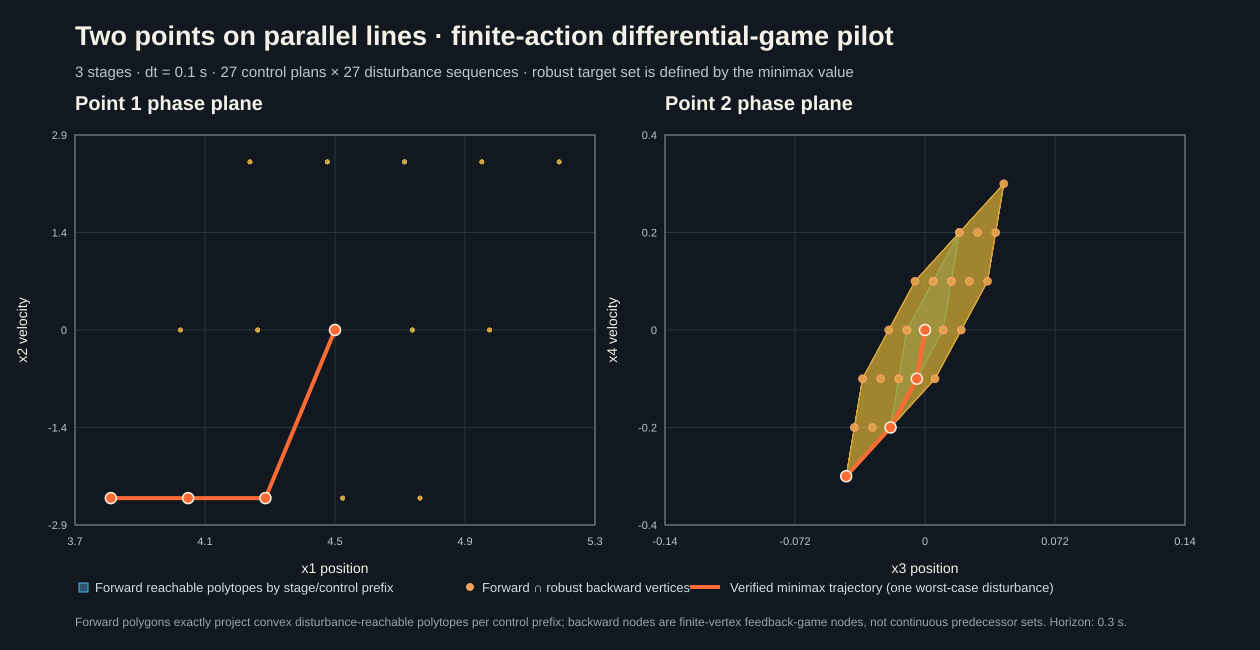
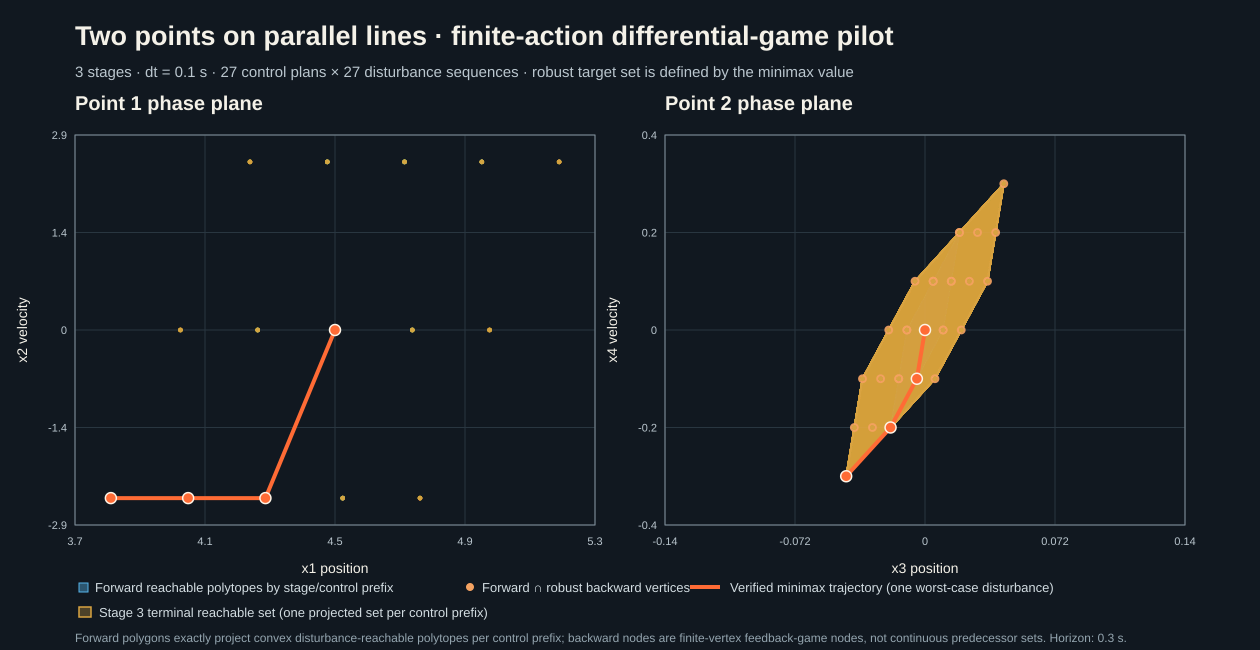
Highlight terminal reachable set in pilot figure

Changed region(s): [[0.0619, 0.9231, 0.8976, 1.0], [0.65, 0.2769, 0.8048, 0.7077]]

diff --git a/reports/algorithm-results/env717-two-points-pilot-v1/index.html b/reports/algorithm-results/env717-two-points-pilot-v1/index.html
@@ -491,42 +491,42 @@
 <text x="1185.00" y="545" fill="#bac6ce" font-family="sans-serif" font-size="11" text-anchor="middle">0.14</text>
 <text x="657" y="139.00" fill="#bac6ce" font-family="sans-serif" font-size="11" text-anchor="end">0.4</text>
 <rect x="665" y="135" width="520" height="390" fill="none" stroke="#81909a"/>
-<polygon points="890.57,427.50 943.12,330.00 951.27,281.25 959.43,232.50 906.88,330.00 898.73,378.75" fill="#00c49a" fill-opacity="0.055" stroke="#00c49a" stroke-opacity="0.28" stroke-width="0.8"/>
-<polygon points="890.57,427.50 943.12,330.00 951.27,281.25 959.43,232.50 906.88,330.00 898.73,378.75" fill="#00c49a" fill-opacity="0.055" stroke="#00c49a" stroke-opacity="0.28" stroke-width="0.8"/>
-<polygon points="890.57,427.50 943.12,330.00 951.27,281.25 959.43,232.50 906.88,330.00 898.73,378.75" fill="#00c49a" fill-opacity="0.055" stroke="#00c49a" stroke-opacity="0.28" stroke-width="0.8"/>
-<polygon points="890.57,427.50 943.12,330.00 951.27,281.25 959.43,232.50 906.88,330.00 898.73,378.75" fill="#00c49a" fill-opacity="0.055" stroke="#00c49a" stroke-opacity="0.28" stroke-width="0.8"/>
-<polygon points="890.57,427.50 943.12,330.00 951.27,281.25 959.43,232.50 906.88,330.00 898.73,378.75" fill="#00c49a" fill-opacity="0.055" stroke="#00c49a" stroke-opacity="0.28" stroke-width="0.8"/>
-<polygon points="890.57,427.50 943.12,330.00 951.27,281.25 959.43,232.50 906.88,330.00 898.73,378.75" fill="#00c49a" fill-opacity="0.055" stroke="#00c49a" stroke-opacity="0.28" stroke-width="0.8"/>
-<polygon points="890.57,427.50 943.12,330.00 951.27,281.25 959.43,232.50 906.88,330.00 898.73,378.75" fill="#00c49a" fill-opacity="0.055" stroke="#00c49a" stroke-opacity="0.28" stroke-width="0.8"/>
-<polygon points="890.57,427.50 943.12,330.00 951.27,281.25 959.43,232.50 906.88,330.00 898.73,378.75" fill="#00c49a" fill-opacity="0.055" stroke="#00c49a" stroke-opacity="0.28" stroke-width="0.8"/>
-<polygon points="890.57,427.50 943.12,330.00 951.27,281.25 959.43,232.50 906.88,330.00 898.73,378.75" fill="#00c49a" fill-opacity="0.055" stroke="#00c49a" stroke-opacity="0.28" stroke-width="0.8"/>
-<polygon points="846.18,476.25 890.57,427.50 934.97,378.75 987.51,281.25 1003.82,183.75 959.43,232.50 915.03,281.25 862.49,378.75" fill="#d9a441" fill-opacity="0.055" stroke="#d9a441" stroke-opacity="0.28" stroke-width="0.8"/>
-<polygon points="846.18,476.25 890.57,427.50 934.97,378.75 987.51,281.25 1003.82,183.75 959.43,232.50 915.03,281.25 862.49,378.75" fill="#d9a441" fill-opacity="0.055" stroke="#d9a441" stroke-opacity="0.28" stroke-width="0.8"/>
-<polygon points="846.18,476.25 890.57,427.50 934.97,378.75 987.51,281.25 1003.82,183.75 959.43,232.50 915.03,281.25 862.49,378.75" fill="#d9a441" fill-opacity="0.055" stroke="#d9a441" stroke-opacity="0.28" stroke-width="0.8"/>
-<polygon points="846.18,476.25 890.57,427.50 934.97,378.75 987.51,281.25 1003.82,183.75 959.43,232.50 915.03,281.25 862.49,378.75" fill="#d9a441" fill-opacity="0.055" stroke="#d9a441" stroke-opacity="0.28" stroke-width="0.8"/>
-<polygon points="846.18,476.25 890.57,427.50 934.97,378.75 987.51,281.25 1003.82,183.75 959.43,232.50 915.03,281.25 862.49,378.75" fill="#d9a441" fill-opacity="0.055" stroke="#d9a441" stroke-opacity="0.28" stroke-width="0.8"/>
-<polygon points="846.18,476.25 890.57,427.50 934.97,378.75 987.51,281.25 1003.82,183.75 959.43,232.50 915.03,281.25 862.49,378.75" fill="#d9a441" fill-opacity="0.055" stroke="#d9a441" stroke-opacity="0.28" stroke-width="0.8"/>
-<polygon points="846.18,476.25 890.57,427.50 934.97,378.75 987.51,281.25 1003.82,183.75 959.43,232.50 915.03,281.25 862.49,378.75" fill="#d9a441" fill-opacity="0.055" stroke="#d9a441" stroke-opacity="0.28" stroke-width="0.8"/>
-<polygon points="846.18,476.25 890.57,427.50 934.97,378.75 987.51,281.25 1003.82,183.75 959.43,232.50 915.03,281.25 862.49,378.75" fill="#d9a441" fill-opacity="0.055" stroke="#d9a441" stroke-opacity="0.28" stroke-width="0.8"/>
-<polygon points="846.18,476.25 890.57,427.50 934.97,378.75 987.51,281.25 1003.82,183.75 959.43,232.50 915.03,281.25 862.49,378.75" fill="#d9a441" fill-opacity="0.055" stroke="#d9a441" stroke-opacity="0.28" stroke-width="0.8"/>
-<polygon points="846.18,476.25 890.57,427.50 934.97,378.75 987.51,281.25 1003.82,183.75 959.43,232.50 915.03,281.25 862.49,378.75" fill="#d9a441" fill-opacity="0.055" stroke="#d9a441" stroke-opacity="0.28" stroke-width="0.8"/>
-<polygon points="846.18,476.25 890.57,427.50 934.97,378.75 987.51,281.25 1003.82,183.75 959.43,232.50 915.03,281.25 862.49,378.75" fill="#d9a441" fill-opacity="0.055" stroke="#d9a441" stroke-opacity="0.28" stroke-width="0.8"/>
-<polygon points="846.18,476.25 890.57,427.50 934.97,378.75 987.51,281.25 1003.82,183.75 959.43,232.50 915.03,281.25 862.49,378.75" fill="#d9a441" fill-opacity="0.055" stroke="#d9a441" stroke-opacity="0.28" stroke-width="0.8"/>
-<polygon points="846.18,476.25 890.57,427.50 934.97,378.75 987.51,281.25 1003.82,183.75 959.43,232.50 915.03,281.25 862.49,378.75" fill="#d9a441" fill-opacity="0.055" stroke="#d9a441" stroke-opacity="0.28" stroke-width="0.8"/>
-<polygon points="846.18,476.25 890.57,427.50 934.97,378.75 987.51,281.25 1003.82,183.75 959.43,232.50 915.03,281.25 862.49,378.75" fill="#d9a441" fill-opacity="0.055" stroke="#d9a441" stroke-opacity="0.28" stroke-width="0.8"/>
-<polygon points="846.18,476.25 890.57,427.50 934.97,378.75 987.51,281.25 1003.82,183.75 959.43,232.50 915.03,281.25 862.49,378.75" fill="#d9a441" fill-opacity="0.055" stroke="#d9a441" stroke-opacity="0.28" stroke-width="0.8"/>
-<polygon points="846.18,476.25 890.57,427.50 934.97,378.75 987.51,281.25 1003.82,183.75 959.43,232.50 915.03,281.25 862.49,378.75" fill="#d9a441" fill-opacity="0.055" stroke="#d9a441" stroke-opacity="0.28" stroke-width="0.8"/>
-<polygon points="846.18,476.25 890.57,427.50 934.97,378.75 987.51,281.25 1003.82,183.75 959.43,232.50 915.03,281.25 862.49,378.75" fill="#d9a441" fill-opacity="0.055" stroke="#d9a441" stroke-opacity="0.28" stroke-width="0.8"/>
-<polygon points="846.18,476.25 890.57,427.50 934.97,378.75 987.51,281.25 1003.82,183.75 959.43,232.50 915.03,281.25 862.49,378.75" fill="#d9a441" fill-opacity="0.055" stroke="#d9a441" stroke-opacity="0.28" stroke-width="0.8"/>
-<polygon points="846.18,476.25 890.57,427.50 934.97,378.75 987.51,281.25 1003.82,183.75 959.43,232.50 915.03,281.25 862.49,378.75" fill="#d9a441" fill-opacity="0.055" stroke="#d9a441" stroke-opacity="0.28" stroke-width="0.8"/>
-<polygon points="846.18,476.25 890.57,427.50 934.97,378.75 987.51,281.25 1003.82,183.75 959.43,232.50 915.03,281.25 862.49,378.75" fill="#d9a441" fill-opacity="0.055" stroke="#d9a441" stroke-opacity="0.28" stroke-width="0.8"/>
-<polygon points="846.18,476.25 890.57,427.50 934.97,378.75 987.51,281.25 1003.82,183.75 959.43,232.50 915.03,281.25 862.49,378.75" fill="#d9a441" fill-opacity="0.055" stroke="#d9a441" stroke-opacity="0.28" stroke-width="0.8"/>
-<polygon points="846.18,476.25 890.57,427.50 934.97,378.75 987.51,281.25 1003.82,183.75 959.43,232.50 915.03,281.25 862.49,378.75" fill="#d9a441" fill-opacity="0.055" stroke="#d9a441" stroke-opacity="0.28" stroke-width="0.8"/>
-<polygon points="846.18,476.25 890.57,427.50 934.97,378.75 987.51,281.25 1003.82,183.75 959.43,232.50 915.03,281.25 862.49,378.75" fill="#d9a441" fill-opacity="0.055" stroke="#d9a441" stroke-opacity="0.28" stroke-width="0.8"/>
-<polygon points="846.18,476.25 890.57,427.50 934.97,378.75 987.51,281.25 1003.82,183.75 959.43,232.50 915.03,281.25 862.49,378.75" fill="#d9a441" fill-opacity="0.055" stroke="#d9a441" stroke-opacity="0.28" stroke-width="0.8"/>
-<polygon points="846.18,476.25 890.57,427.50 934.97,378.75 987.51,281.25 1003.82,183.75 959.43,232.50 915.03,281.25 862.49,378.75" fill="#d9a441" fill-opacity="0.055" stroke="#d9a441" stroke-opacity="0.28" stroke-width="0.8"/>
-<polygon points="846.18,476.25 890.57,427.50 934.97,378.75 987.51,281.25 1003.82,183.75 959.43,232.50 915.03,281.25 862.49,378.75" fill="#d9a441" fill-opacity="0.055" stroke="#d9a441" stroke-opacity="0.28" stroke-width="0.8"/>
-<polygon points="846.18,476.25 890.57,427.50 934.97,378.75 987.51,281.25 1003.82,183.75 959.43,232.50 915.03,281.25 862.49,378.75" fill="#d9a441" fill-opacity="0.055" stroke="#d9a441" stroke-opacity="0.28" stroke-width="0.8"/>
+<polygon points="890.57,427.50 943.12,330.00 951.27,281.25 959.43,232.50 906.88,330.00 898.73,378.75" fill="#00c49a" fill-opacity="0.035" stroke="#00c49a" stroke-opacity="0.2" stroke-width="0.8"/>
+<polygon points="890.57,427.50 943.12,330.00 951.27,281.25 959.43,232.50 906.88,330.00 898.73,378.75" fill="#00c49a" fill-opacity="0.035" stroke="#00c49a" stroke-opacity="0.2" stroke-width="0.8"/>
+<polygon points="890.57,427.50 943.12,330.00 951.27,281.25 959.43,232.50 906.88,330.00 898.73,378.75" fill="#00c49a" fill-opacity="0.035" stroke="#00c49a" stroke-opacity="0.2" stroke-width="0.8"/>
+<polygon points="890.57,427.50 943.12,330.00 951.27,281.25 959.43,232.50 906.88,330.00 898.73,378.75" fill="#00c49a" fill-opacity="0.035" stroke="#00c49a" stroke-opacity="0.2" stroke-width="0.8"/>
+<polygon points="890.57,427.50 943.12,330.00 951.27,281.25 959.43,232.50 906.88,330.00 898.73,378.75" fill="#00c49a" fill-opacity="0.035" stroke="#00c49a" stroke-opacity="0.2" stroke-width="0.8"/>
+<polygon points="890.57,427.50 943.12,330.00 951.27,281.25 959.43,232.50 906.88,330.00 898.73,378.75" fill="#00c49a" fill-opacity="0.035" stroke="#00c49a" stroke-opacity="0.2" stroke-width="0.8"/>
+<polygon points="890.57,427.50 943.12,330.00 951.27,281.25 959.43,232.50 906.88,330.00 898.73,378.75" fill="#00c49a" fill-opacity="0.035" stroke="#00c49a" stroke-opacity="0.2" stroke-width="0.8"/>
+<polygon points="890.57,427.50 943.12,330.00 951.27,281.25 959.43,232.50 906.88,330.00 898.73,378.75" fill="#00c49a" fill-opacity="0.035" stroke="#00c49a" stroke-opacity="0.2" stroke-width="0.8"/>
+<polygon points="890.57,427.50 943.12,330.00 951.27,281.25 959.43,232.50 906.88,330.00 898.73,378.75" fill="#00c49a" fill-opacity="0.035" stroke="#00c49a" stroke-opacity="0.2" stroke-width="0.8"/>
+<polygon points="846.18,476.25 890.57,427.50 934.97,378.75 987.51,281.25 1003.82,183.75 959.43,232.50 915.03,281.25 862.49,378.75" fill="#d9a441" fill-opacity="0.13" stroke="#d9a441" stroke-opacity="0.85" stroke-width="1.6"/>
+<polygon points="846.18,476.25 890.57,427.50 934.97,378.75 987.51,281.25 1003.82,183.75 959.43,232.50 915.03,281.25 862.49,378.75" fill="#d9a441" fill-opacity="0.13" stroke="#d9a441" stroke-opacity="0.85" stroke-width="1.6"/>
+<polygon points="846.18,476.25 890.57,427.50 934.97,378.75 987.51,281.25 1003.82,183.75 959.43,232.50 915.03,281.25 862.49,378.75" fill="#d9a441" fill-opacity="0.13" stroke="#d9a441" stroke-opacity="0.85" stroke-width="1.6"/>
+<polygon points="846.18,476.25 890.57,427.50 934.97,378.75 987.51,281.25 1003.82,183.75 959.43,232.50 915.03,281.25 862.49,378.75" fill="#d9a441" fill-opacity="0.13" stroke="#d9a441" stroke-opacity="0.85" stroke-width="1.6"/>
+<polygon points="846.18,476.25 890.57,427.50 934.97,378.75 987.51,281.25 1003.82,183.75 959.43,232.50 915.03,281.25 862.49,378.75" fill="#d9a441" fill-opacity="0.13" stroke="#d9a441" stroke-opacity="0.85" stroke-width="1.6"/>
+<polygon points="846.18,476.25 890.57,427.50 934.97,378.75 987.51,281.25 1003.82,183.75 959.43,232.50 915.03,281.25 862.49,378.75" fill="#d9a441" fill-opacity="0.13" stroke="#d9a441" stroke-opacity="0.85" stroke-width="1.6"/>
+<polygon points="846.18,476.25 890.57,427.50 934.97,378.75 987.51,281.25 1003.82,183.75 959.43,232.50 915.03,281.25 862.49,378.75" fill="#d9a441" fill-opacity="0.13" stroke="#d9a441" stroke-opacity="0.85" stroke-width="1.6"/>
+<polygon points="846.18,476.25 890.57,427.50 934.97,378.75 987.51,281.25 1003.82,183.75 959.43,232.50 915.03,281.25 862.49,378.75" fill="#d9a441" fill-opacity="0.13" stroke="#d9a441" stroke-opacity="0.85" stroke-width="1.6"/>
+<polygon points="846.18,476.25 890.57,427.50 934.97,378.75 987.51,281.25 1003.82,183.75 959.43,232.50 915.03,281.25 862.49,378.75" fill="#d9a441" fill-opacity="0.13" stroke="#d9a441" stroke-opacity="0.85" stroke-width="1.6"/>
+<polygon points="846.18,476.25 890.57,427.50 934.97,378.75 987.51,281.25 1003.82,183.75 959.43,232.50 915.03,281.25 862.49,378.75" fill="#d9a441" fill-opacity="0.13" stroke="#d9a441" stroke-opacity="0.85" stroke-width="1.6"/>
+<polygon points="846.18,476.25 890.57,427.50 934.97,378.75 987.51,281.25 1003.82,183.75 959.43,232.50 915.03,281.25 862.49,378.75" fill="#d9a441" fill-opacity="0.13" stroke="#d9a441" stroke-opacity="0.85" stroke-width="1.6"/>
+<polygon points="846.18,476.25 890.57,427.50 934.97,378.75 987.51,281.25 1003.82,183.75 959.43,232.50 915.03,281.25 862.49,378.75" fill="#d9a441" fill-opacity="0.13" stroke="#d9a441" stroke-opacity="0.85" stroke-width="1.6"/>
+<polygon points="846.18,476.25 890.57,427.50 934.97,378.75 987.51,281.25 1003.82,183.75 959.43,232.50 915.03,281.25 862.49,378.75" fill="#d9a441" fill-opacity="0.13" stroke="#d9a441" stroke-opacity="0.85" stroke-width="1.6"/>
+<polygon points="846.18,476.25 890.57,427.50 934.97,378.75 987.51,281.25 1003.82,183.75 959.43,232.50 915.03,281.25 862.49,378.75" fill="#d9a441" fill-opacity="0.13" stroke="#d9a441" stroke-opacity="0.85" stroke-width="1.6"/>
+<polygon points="846.18,476.25 890.57,427.50 934.97,378.75 987.51,281.25 1003.82,183.75 959.43,232.50 915.03,281.25 862.49,378.75" fill="#d9a441" fill-opacity="0.13" stroke="#d9a441" stroke-opacity="0.85" stroke-width="1.6"/>
+<polygon points="846.18,476.25 890.57,427.50 934.97,378.75 987.51,281.25 1003.82,183.75 959.43,232.50 915.03,281.25 862.49,378.75" fill="#d9a441" fill-opacity="0.13" stroke="#d9a441" stroke-opacity="0.85" stroke-width="1.6"/>
+<polygon points="846.18,476.25 890.57,427.50 934.97,378.75 987.51,281.25 1003.82,183.75 959.43,232.50 915.03,281.25 862.49,378.75" fill="#d9a441" fill-opacity="0.13" stroke="#d9a441" stroke-opacity="0.85" stroke-width="1.6"/>
+<polygon points="846.18,476.25 890.57,427.50 934.97,378.75 987.51,281.25 1003.82,183.75 959.43,232.50 915.03,281.25 862.49,378.75" fill="#d9a441" fill-opacity="0.13" stroke="#d9a441" stroke-opacity="0.85" stroke-width="1.6"/>
+<polygon points="846.18,476.25 890.57,427.50 934.97,378.75 987.51,281.25 1003.82,183.75 959.43,232.50 915.03,281.25 862.49,378.75" fill="#d9a441" fill-opacity="0.13" stroke="#d9a441" stroke-opacity="0.85" stroke-width="1.6"/>
+<polygon points="846.18,476.25 890.57,427.50 934.97,378.75 987.51,281.25 1003.82,183.75 959.43,232.50 915.03,281.25 862.49,378.75" fill="#d9a441" fill-opacity="0.13" stroke="#d9a441" stroke-opacity="0.85" stroke-width="1.6"/>
+<polygon points="846.18,476.25 890.57,427.50 934.97,378.75 987.51,281.25 1003.82,183.75 959.43,232.50 915.03,281.25 862.49,378.75" fill="#d9a441" fill-opacity="0.13" stroke="#d9a441" stroke-opacity="0.85" stroke-width="1.6"/>
+<polygon points="846.18,476.25 890.57,427.50 934.97,378.75 987.51,281.25 1003.82,183.75 959.43,232.50 915.03,281.25 862.49,378.75" fill="#d9a441" fill-opacity="0.13" stroke="#d9a441" stroke-opacity="0.85" stroke-width="1.6"/>
+<polygon points="846.18,476.25 890.57,427.50 934.97,378.75 987.51,281.25 1003.82,183.75 959.43,232.50 915.03,281.25 862.49,378.75" fill="#d9a441" fill-opacity="0.13" stroke="#d9a441" stroke-opacity="0.85" stroke-width="1.6"/>
+<polygon points="846.18,476.25 890.57,427.50 934.97,378.75 987.51,281.25 1003.82,183.75 959.43,232.50 915.03,281.25 862.49,378.75" fill="#d9a441" fill-opacity="0.13" stroke="#d9a441" stroke-opacity="0.85" stroke-width="1.6"/>
+<polygon points="846.18,476.25 890.57,427.50 934.97,378.75 987.51,281.25 1003.82,183.75 959.43,232.50 915.03,281.25 862.49,378.75" fill="#d9a441" fill-opacity="0.13" stroke="#d9a441" stroke-opacity="0.85" stroke-width="1.6"/>
+<polygon points="846.18,476.25 890.57,427.50 934.97,378.75 987.51,281.25 1003.82,183.75 959.43,232.50 915.03,281.25 862.49,378.75" fill="#d9a441" fill-opacity="0.13" stroke="#d9a441" stroke-opacity="0.85" stroke-width="1.6"/>
+<polygon points="846.18,476.25 890.57,427.50 934.97,378.75 987.51,281.25 1003.82,183.75 959.43,232.50 915.03,281.25 862.49,378.75" fill="#d9a441" fill-opacity="0.13" stroke="#d9a441" stroke-opacity="0.85" stroke-width="1.6"/>
 <circle cx="925.00" cy="330.00" r="4.4" fill="#f4a261" fill-opacity="0.92"/>
 <circle cx="916.85" cy="378.75" r="4.4" fill="#f4a261" fill-opacity="0.92"/>
 <circle cx="925.00" cy="330.00" r="4.4" fill="#f4a261" fill-opacity="0.92"/>
@@ -971,7 +971,8 @@
 <text x="925.0" y="573" fill="#f4f1e8" font-family="sans-serif" font-size="14" text-anchor="middle">x3 position</text>
 <text x="617" y="330.0" fill="#f4f1e8" font-family="sans-serif" font-size="14" text-anchor="middle" transform="rotate(-90 617 330.0)">x4 velocity</text>
 <rect x="79" y="583" width="9" height="9" fill="#56b4e9" fill-opacity="0.4" stroke="#56b4e9"/><text x="95" y="592" fill="#d2dce1" font-family="sans-serif" font-size="13">Forward reachable polytopes by stage/control prefix</text>
+<rect x="79" y="607" width="12" height="10" fill="#d9a441" fill-opacity="0.3" stroke="#d9a441" stroke-width="1.5"/><text x="99" y="617" fill="#d2dce1" font-family="sans-serif" font-size="13">Stage 3 terminal reachable set (one projected set per control prefix)</text>
 <circle cx="470" cy="587" r="4" fill="#f4a261"/><text x="482" y="592" fill="#d2dce1" font-family="sans-serif" font-size="13">Forward ∩ robust backward vertices</text>
 <line x1="690" y1="587" x2="720" y2="587" stroke="#ff6b35" stroke-width="4"/><text x="730" y="592" fill="#d2dce1" font-family="sans-serif" font-size="13">Verified minimax trajectory (one worst-case disturbance)</text>
-<text x="75" y="626" fill="#93a4ae" font-family="sans-serif" font-size="12">Forward polygons exactly project convex disturbance-reachable polytopes per control prefix; backward nodes are finite-vertex feedback-game nodes, not continuous predecessor sets. Horizon: 0.3 s.</text>
-</svg></div><p class="note"><strong>Adaptation:</strong> the source uses continuous actions over 10 seconds. This pilot uses a 3-stage control catalogue and disturbance sets equal to the convex hull of the listed vertices. The discrete linear stage map is derived from the source’s ten explicit-Euler substeps. The minimax solver selects an open-loop control sequence against the full convex disturbance sets. Forward polygons exactly project each convex disturbance-reachable polytope for one fixed control prefix. The separately computed backwards nodes permit state-dependent controls in a finite vertex game; they are not complete continuous-state predecessor sets or the fixed-plan solver’s output. This is not a reproduction of the original continuous-control RL experiment.</p><p>Minimax squared gap: 14.580942; worst absolute gap: 3.8185. Seven single-threaded solver-call observations after one warmup have median 1082272 ns and range 996436–1213924 ns. No comparative speed claim is supported. <a href="result.json">Result JSON</a> · <a href="figure-data.json">Figure data</a> · <a href="projections.svg">Standalone SVG</a></p><p>Upstream commit <code>f4d76c60f4003f50954174e96eafd8e514bd5441</code>; source blob <code>4e71bed8ceffa1990645fb85e54d6b5b1eeb688d</code>. Runtime environment: Linux-7.2.5-3-omarchy-x86_64-with-glibc2.44, , 8 logical CPUs.</p></main></html>
+<text x="75" y="642" fill="#93a4ae" font-family="sans-serif" font-size="12">Forward polygons exactly project convex disturbance-reachable polytopes per control prefix; backward nodes are finite-vertex feedback-game nodes, not continuous predecessor sets. Horizon: 0.3 s.</text>
+</svg></div><p class="note"><strong>Adaptation:</strong> the source uses continuous actions over 10 seconds. This pilot uses a 3-stage control catalogue and disturbance sets equal to the convex hull of the listed vertices. The discrete linear stage map is derived from the source’s ten explicit-Euler substeps. The minimax solver selects an open-loop control sequence against the full convex disturbance sets. Forward polygons exactly project each convex disturbance-reachable polytope for one fixed control prefix. The separately computed backwards nodes permit state-dependent controls in a finite vertex game; they are not complete continuous-state predecessor sets or the fixed-plan solver’s output. This is not a reproduction of the original continuous-control RL experiment.</p><p>Minimax squared gap: 14.580942; worst absolute gap: 3.8185. Seven single-threaded solver-call observations after one warmup have median 555523 ns and range 520882–582761 ns. No comparative speed claim is supported. <a href="result.json">Result JSON</a> · <a href="figure-data.json">Figure data</a> · <a href="projections.svg">Standalone SVG</a></p><p>Upstream commit <code>f4d76c60f4003f50954174e96eafd8e514bd5441</code>; source blob <code>4e71bed8ceffa1990645fb85e54d6b5b1eeb688d</code>. Runtime environment: Linux-7.2.5-3-omarchy-x86_64-with-glibc2.44, , 8 logical CPUs.</p></main></html>

diff --git a/scripts/reports/env717/check_two_points.py b/scripts/reports/env717/check_two_points.py
@@ -204,7 +204,11 @@ def plot_svg(derived: dict) -> str:
                 hull = convex_hull(projected)
                 if len(hull) >= 3:
                     coords = " ".join(f'{px(x):.2f},{py(y):.2f}' for x, y in hull)
-                    out.append(f'<polygon points="{coords}" fill="{colors[stage]}" fill-opacity="0.055" stroke="{colors[stage]}" stroke-opacity="0.28" stroke-width="0.8"/>')
+                    terminal = stage == HORIZON
+                    fill_opacity = "0.13" if terminal else "0.035"
+                    stroke_opacity = "0.85" if terminal else "0.2"
+                    stroke_width = "1.6" if terminal else "0.8"
+                    out.append(f'<polygon points="{coords}" fill="{colors[stage]}" fill-opacity="{fill_opacity}" stroke="{colors[stage]}" stroke-opacity="{stroke_opacity}" stroke-width="{stroke_width}"/>')
         for stage, states in enumerate(states_by_stage):
             backward = {tuple(state) for state in back_by_stage[stage]}
             for state in states:
@@ -220,9 +224,10 @@ def plot_svg(derived: dict) -> str:
         out.append(f'<text x="{x0+pw/2}" y="{y0+ph+48}" fill="#f4f1e8" font-family="sans-serif" font-size="14" text-anchor="middle">{xlabel}</text>')
         out.append(f'<text x="{x0-48}" y="{y0+ph/2}" fill="#f4f1e8" font-family="sans-serif" font-size="14" text-anchor="middle" transform="rotate(-90 {x0-48} {y0+ph/2})">{ylabel}</text>')
     out.extend(['<rect x="79" y="583" width="9" height="9" fill="#56b4e9" fill-opacity="0.4" stroke="#56b4e9"/><text x="95" y="592" fill="#d2dce1" font-family="sans-serif" font-size="13">Forward reachable polytopes by stage/control prefix</text>',
+                '<rect x="79" y="607" width="12" height="10" fill="#d9a441" fill-opacity="0.3" stroke="#d9a441" stroke-width="1.5"/><text x="99" y="617" fill="#d2dce1" font-family="sans-serif" font-size="13">Stage 3 terminal reachable set (one projected set per control prefix)</text>',
                 '<circle cx="470" cy="587" r="4" fill="#f4a261"/><text x="482" y="592" fill="#d2dce1" font-family="sans-serif" font-size="13">Forward ∩ robust backward vertices</text>',
                 '<line x1="690" y1="587" x2="720" y2="587" stroke="#ff6b35" stroke-width="4"/><text x="730" y="592" fill="#d2dce1" font-family="sans-serif" font-size="13">Verified minimax trajectory (one worst-case disturbance)</text>',
-                '<text x="75" y="626" fill="#93a4ae" font-family="sans-serif" font-size="12">Forward polygons exactly project convex disturbance-reachable polytopes per control prefix; backward nodes are finite-vertex feedback-game nodes, not continuous predecessor sets. Horizon: 0.3 s.</text>',
+                '<text x="75" y="642" fill="#93a4ae" font-family="sans-serif" font-size="12">Forward polygons exactly project convex disturbance-reachable polytopes per control prefix; backward nodes are finite-vertex feedback-game nodes, not continuous predecessor sets. Horizon: 0.3 s.</text>',
                 '</svg>'])
     return "\n".join(out)
 

diff --git a/tests/reporting/test_env717_two_points_publication.py b/tests/reporting/test_env717_two_points_publication.py
@@ -48,6 +48,10 @@ class TwoPointsPublicationTests(unittest.TestCase):
             self.assertIn(f"{report_id}/projections.png", archive.namelist())
             self.assertIn(f"{report_id}/publication-manifest.json", archive.namelist())
         self.assertIn(f"{report_id}/index.html", (self.site / "index.html").read_text())
+        published_svg = (destination / "projections.svg").read_text()
+        self.assertIn("Stage 3 terminal reachable set", published_svg)
+        self.assertIn("x1 position", published_svg)
+        self.assertIn("x3 position", published_svg)
         with self.assertRaisesRegex(ValueError, "already exists"):
             stage_module.stage(self.source, self.site)
 
